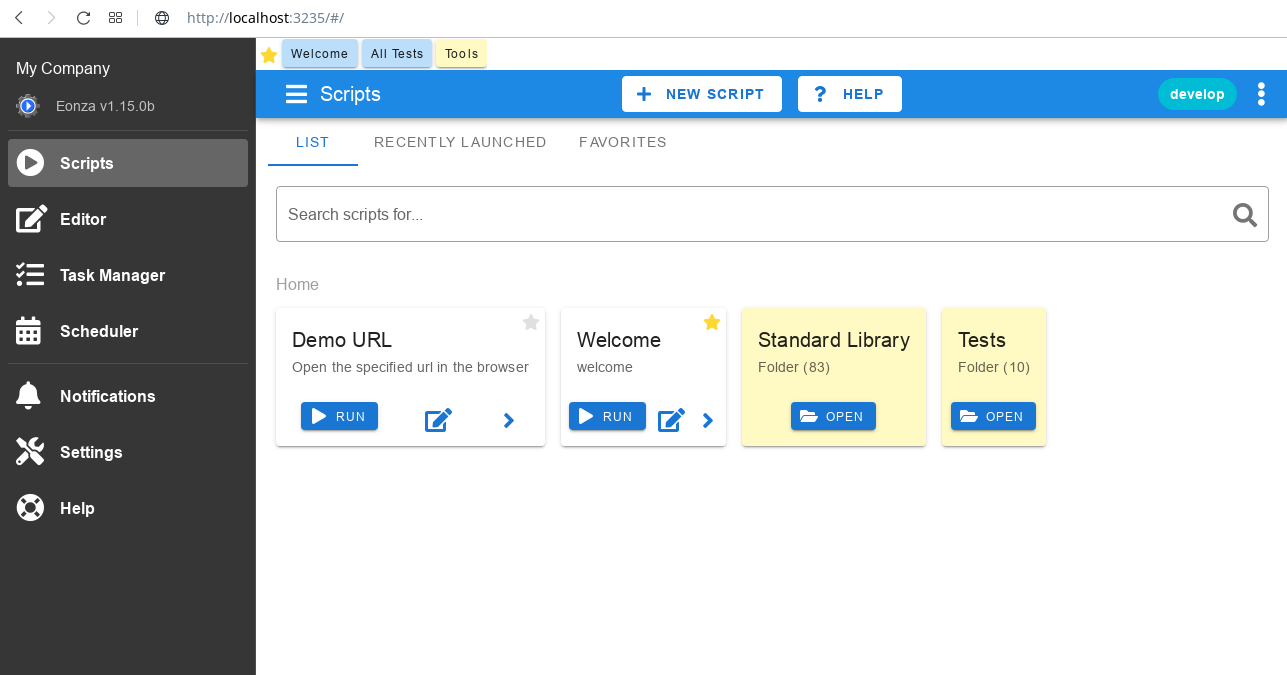
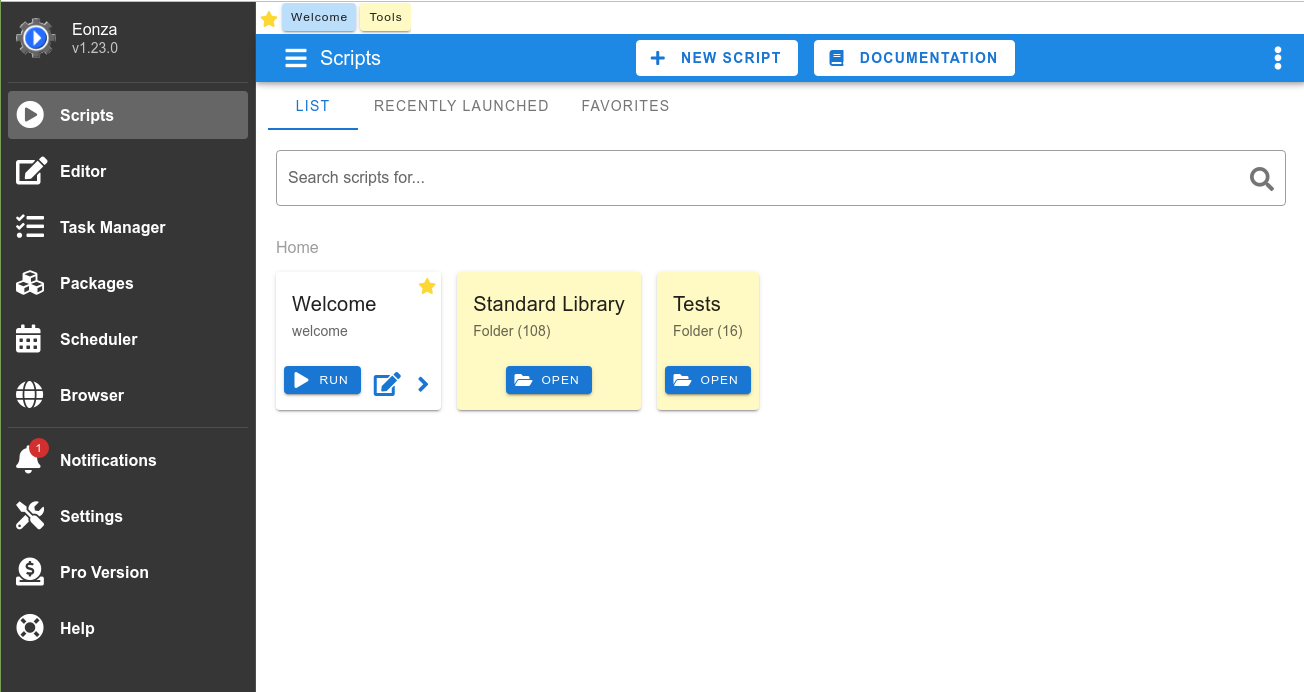
Update screenshots

diff --git a/ru/scripts/send-json-request.md b/ru/scripts/send-json-request.md
@@ -27,7 +27,8 @@ desc: Скрипт отправляет JSON HTTP запрос.
 **Заголовки**  
 При необходимости вы можете определить дополнительные заголовки запроса. Например, **Authorization**. Заголовок  *Content-Type* цказывать не нужно. Он будет добавлен автоматически со значением *application/json; charset=UTF-8*.
 
-**Опциональные параметры**  
+## Опциональные параметры
+
 Вы можете указать дополнительные параметры.
 
 **response**  

diff --git a/ru/index.md b/ru/index.md
@@ -1,6 +1,9 @@
 ---
 title: Eonza - программа для автоматизации | Официальный сайт
 desc: Eonza - это бесплатное, кросс-платформенное программное обеспечение для автоматизации с открытым исходным кодом.
+img:
+   eonza-1: eonza-1.png
+   eonza-2: eonza-2.png
 res:
    contacts: Контакты
    features-md: |-

diff --git a/en/scripts/send-json-request.md b/en/scripts/send-json-request.md
@@ -31,7 +31,8 @@ Specify the name of a variable in which the server response will be written. An 
 **Headers**  
 You can define additional request headers if needed. For example, **Authorization**. You don't have to specify the *Content-Type* header. It will be added automatically with the value *application/json; charset=UTF-8*.
 
-**Optional Parameters**  
+## Optional Parameters
+
 You can specify additional parameters.
 
 **response**  

diff --git a/en/docs/index.md b/en/docs/index.md
@@ -5,8 +5,8 @@ img:
    eonza-1: eonza-1.png
    eonza-2: eonza-2.png
 html:
-   img1: '<img src="%img.eonza-1%" style="margin: 1em 1em;width: 600px;"/>'
-   img2: '<img src="%img.eonza-2%" style="margin: 1em 1em;width: 600px;"/>'
+   img1: '<img src="%img.eonza-1%" style="margin: 1em 1em;"/>'
+   img2: '<img src="%img.eonza-2%" style="margin: 1em 1em;"/>'
 ---
 # Introduction
 

diff --git a/ru/docs/index.md b/ru/docs/index.md
@@ -1,6 +1,9 @@
 ---
 title: Введение
 desc: Введение Eonza automation software.
+img:
+   eonza-1: eonza-1.png
+   eonza-2: eonza-2.png
 ---
 # Введение
 
